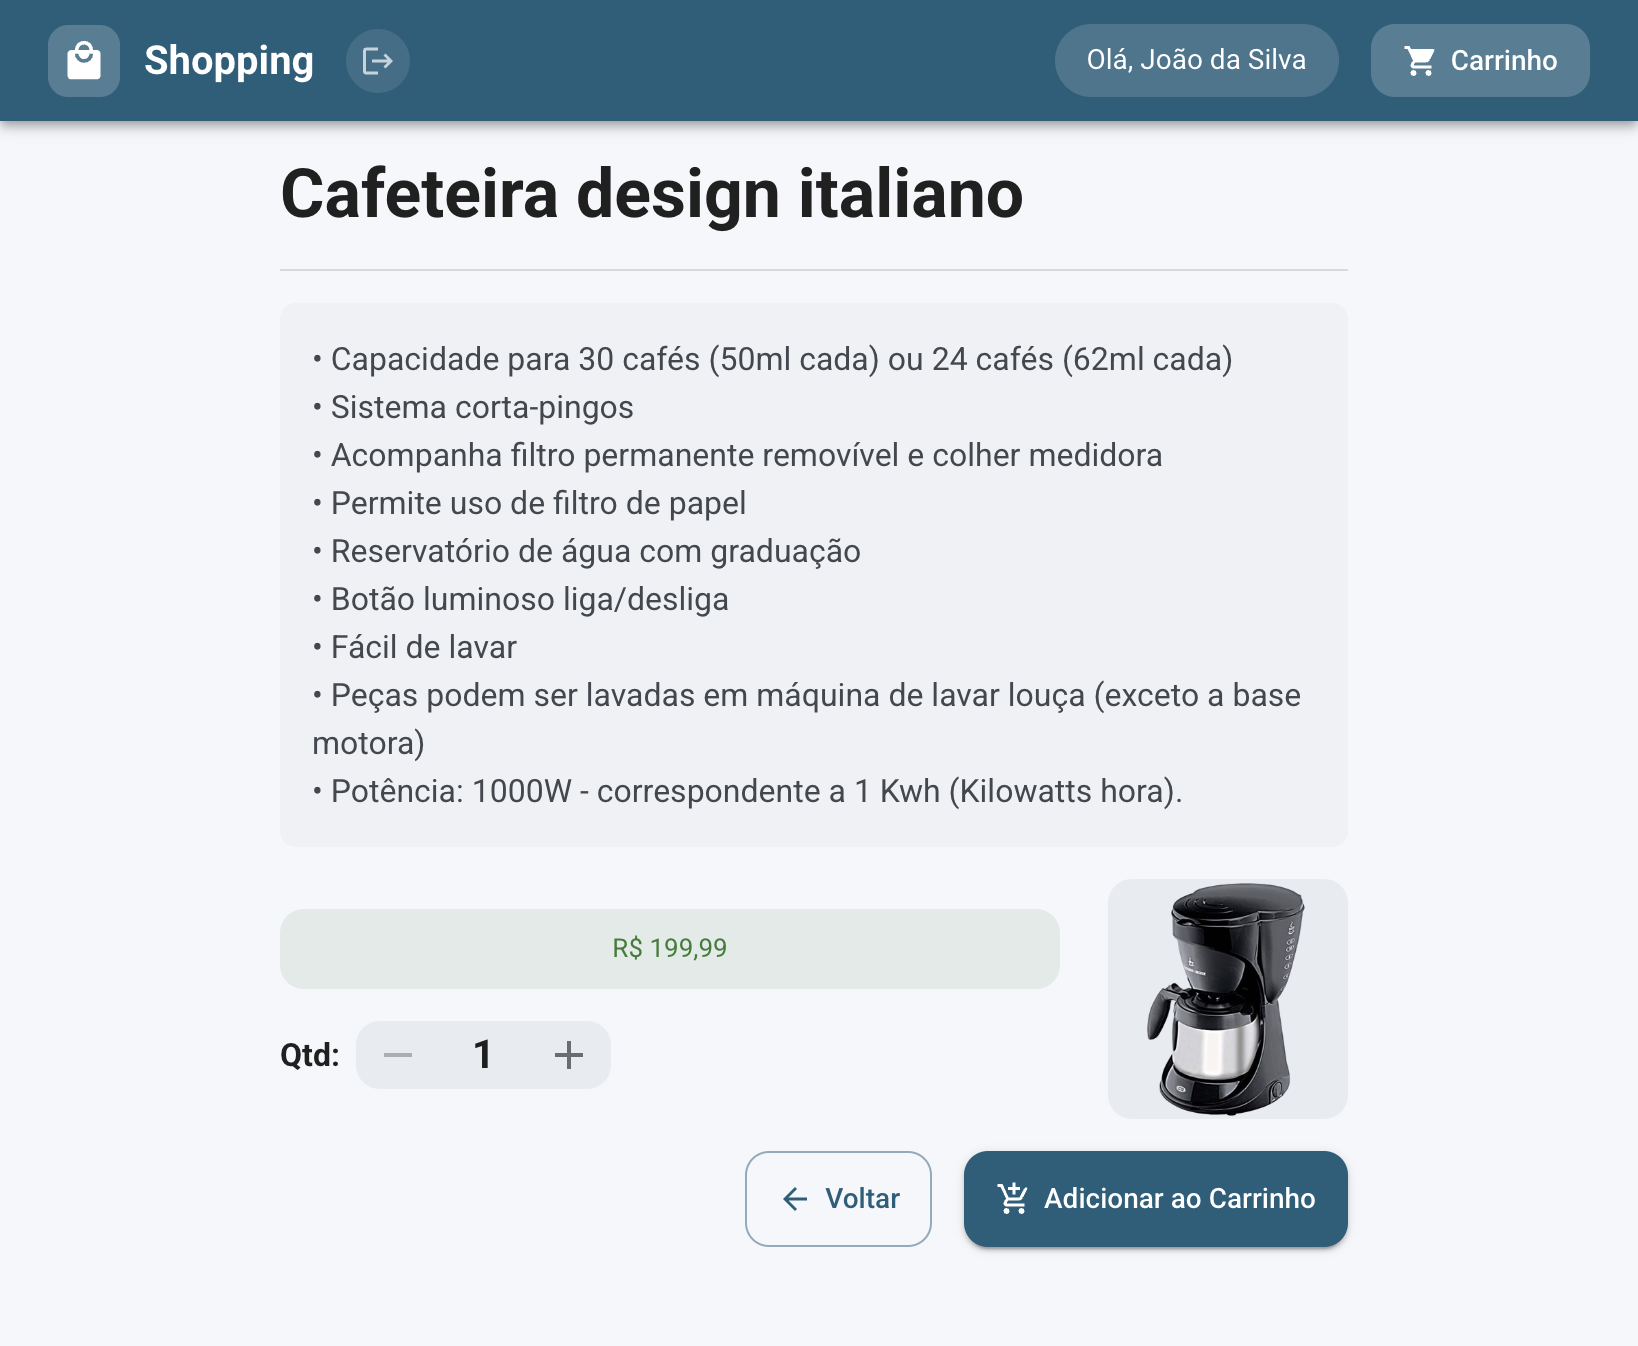
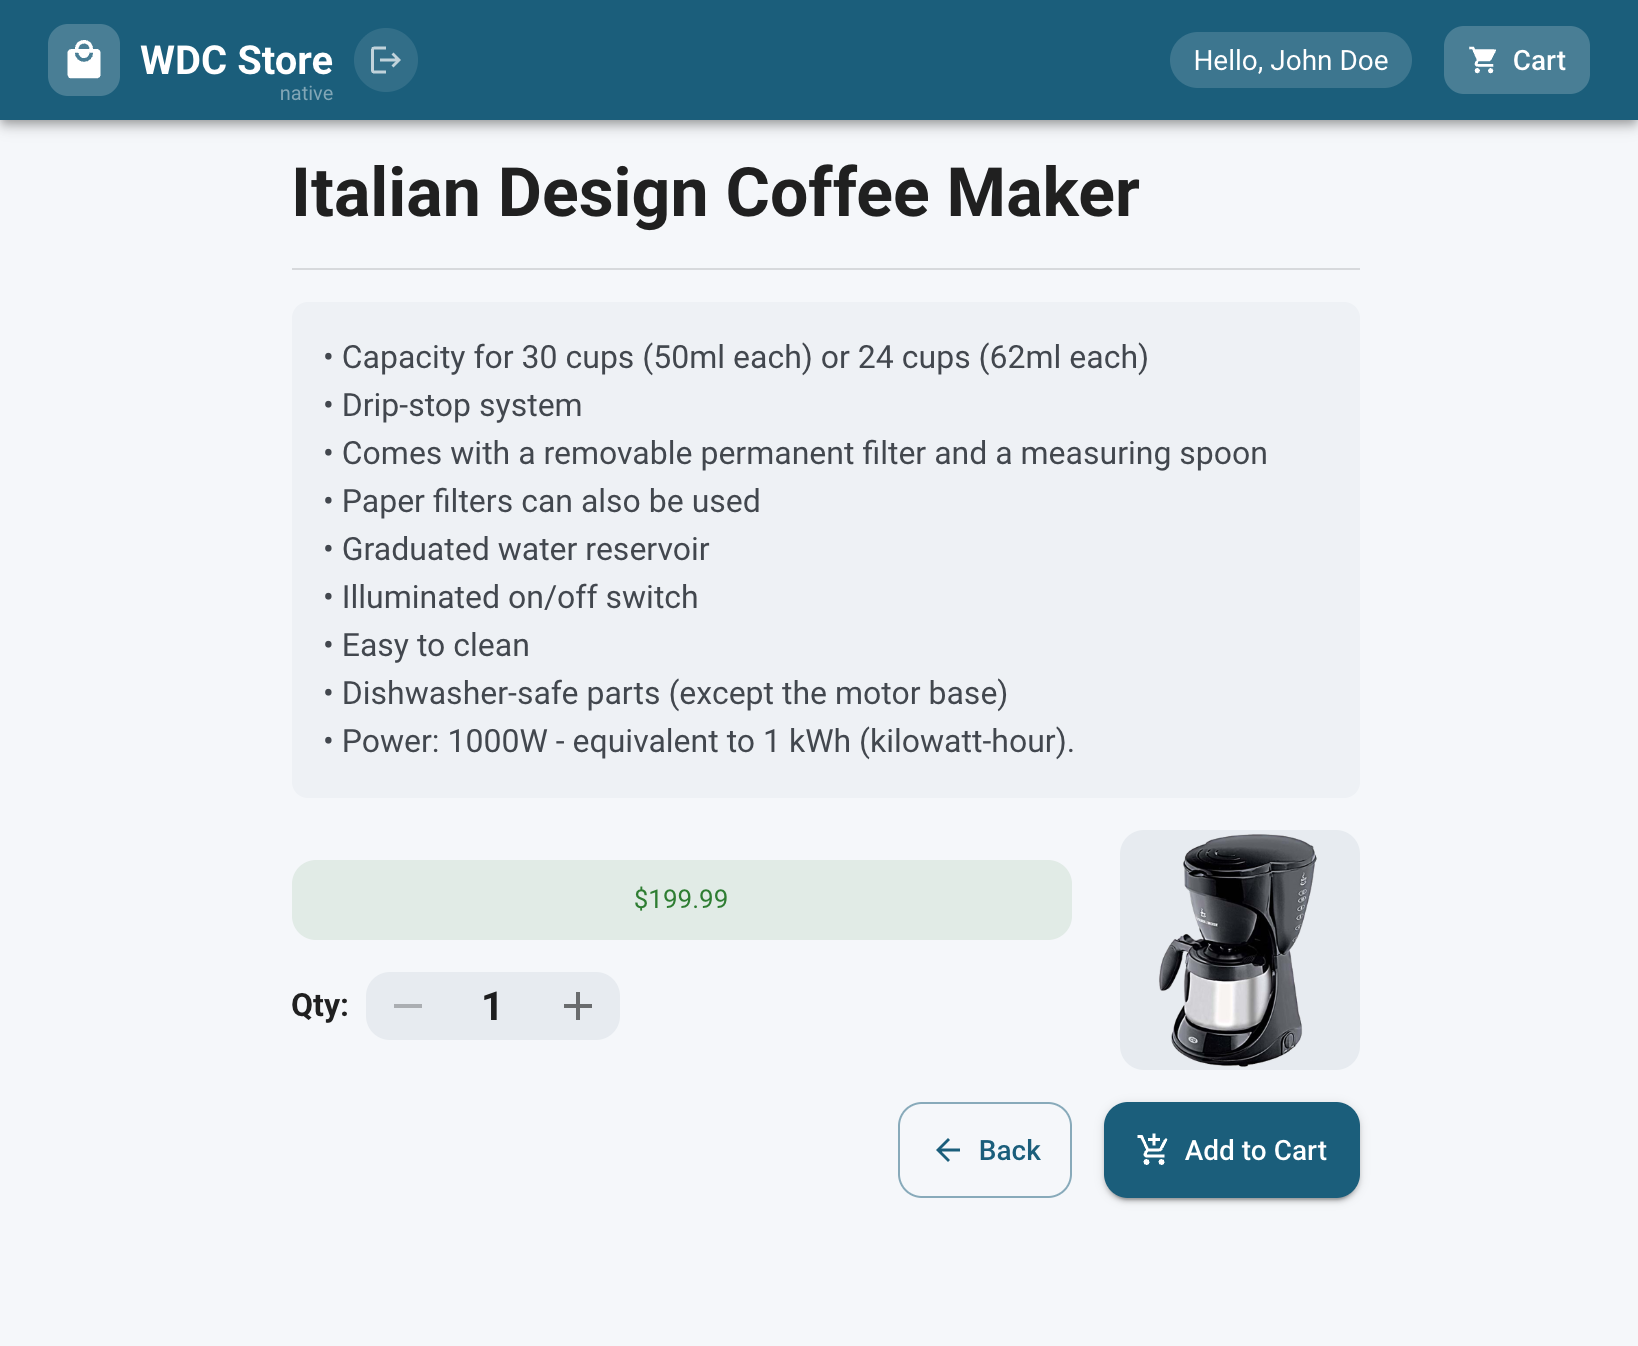
docs: screenshots of the WDC Store in English
The three sets (Compose, native web, remote React) still showed the old
"Shopping" screens in Portuguese, with R$ prices and the old demo data; the
remote React ones an even older design. Taken again in headless Chrome against
a fresh database: the remote React and native web at their former sizes, the
Compose ones from Compose Web at phone width (Android and iOS draw the same
screens). The files get English names.

diff --git a/fontes/br.com.wdc.kt.store/br.com.wdc.kt.store.view.compose/README.md b/fontes/br.com.wdc.kt.store/br.com.wdc.kt.store.view.compose/README.md
@@ -31,16 +31,16 @@ cd fontes
 ./gradlew :view-compose-ios:linkDebugFrameworkIosSimulatorArm64
 ```
 
-## Screens
+## Screens (Compose Web at phone width; Android and iOS draw the same screens)
 
 | Login | Products |
 |:---:|:---:|
-| ![Login](screenshots/01-login.png) | ![Products](screenshots/02-produtos.png) |
+| ![Login](screenshots/01-login.png) | ![Products](screenshots/02-products.png) |
 
 | Product Details | Purchases |
 |:---:|:---:|
-| ![Product Details](screenshots/03-detalhes-produto.png) | ![Purchases](screenshots/04-compras.png) |
+| ![Product Details](screenshots/03-product-details.png) | ![Purchases](screenshots/04-purchases.png) |
 
 | Cart | Receipt |
 |:---:|:---:|
-| ![Cart](screenshots/05-carrinho.png) | ![Receipt](screenshots/06-recibo.png) |
+| ![Cart](screenshots/05-cart.png) | ![Receipt](screenshots/06-receipt.png) |

diff --git a/fontes/br.com.wdc.kt.store/br.com.wdc.kt.store.view.native/README.md b/fontes/br.com.wdc.kt.store/br.com.wdc.kt.store.view.native/README.md
@@ -50,11 +50,11 @@ graph TD
 
 | Product Details | Cart |
 |:---:|:---:|
-| ![Product Details](screenshots/03-detalhes-produto.png) | ![Cart](screenshots/04-carrinho.png) |
+| ![Product Details](screenshots/03-product-details.png) | ![Cart](screenshots/04-cart.png) |
 
 | Receipt |
 |:---:|
-| ![Receipt](screenshots/05-recibo.png) |
+| ![Receipt](screenshots/05-receipt.png) |
 
 > The three platforms (Web, Android, iOS) produce visually equivalent screens, with small nuances due to the native toolkits available.
 

diff --git a/fontes/br.com.wdc.kt.store/br.com.wdc.kt.store.view.remote/remote.react/README.md b/fontes/br.com.wdc.kt.store/br.com.wdc.kt.store.view.remote/remote.react/README.md
@@ -17,8 +17,8 @@ See the [architecture documentation](../../../../docs/architecture-react.md) for
 
 | Product Details | Cart |
 |:---:|:---:|
-| ![Product Details](screenshots/03-detalhes-produto.png) | ![Cart](screenshots/04-carrinho.png) |
+| ![Product Details](screenshots/03-product-details.png) | ![Cart](screenshots/04-cart.png) |
 
 | Receipt |
 |:---:|
-| ![Receipt](screenshots/05-recibo.png) |
+| ![Receipt](screenshots/05-receipt.png) |
